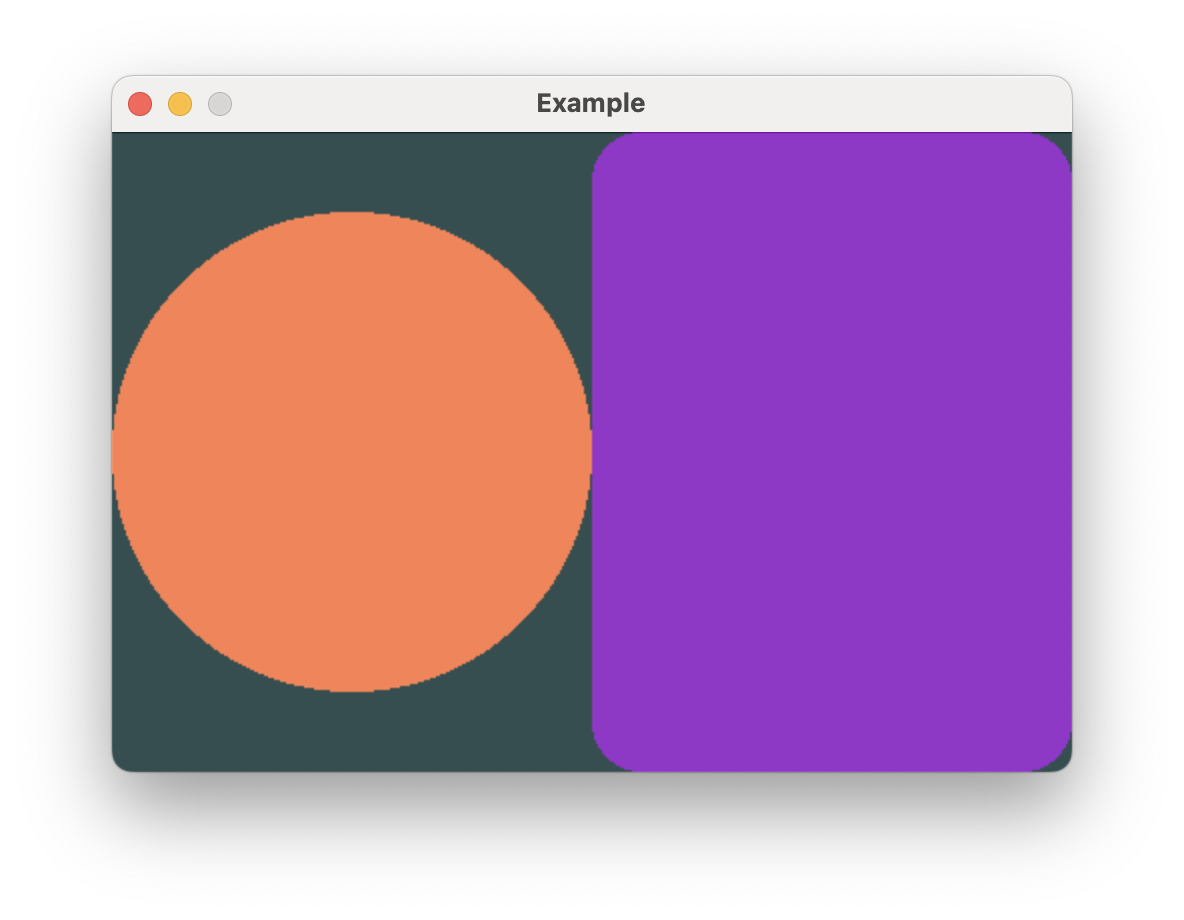
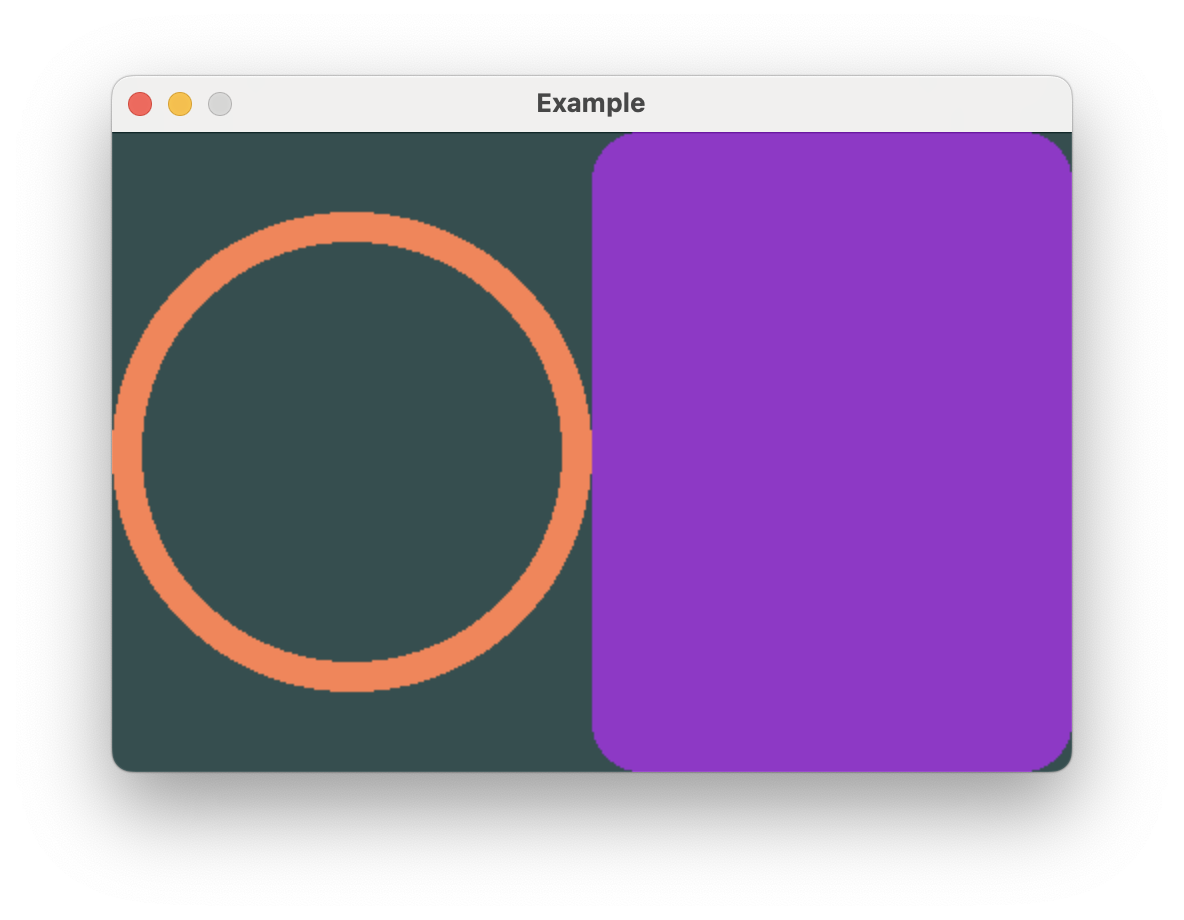
Documentation updates

Changed region(s): [[0.0938, 0.2435, 0.5, 0.7304]]

diff --git a/buoyant-examples/battery/src/view/charge.rs b/buoyant-examples/battery/src/view/charge.rs
@@ -1,12 +1,4 @@
-use buoyant::{
-    layout::{Alignment, HorizontalAlignment},
-    view::{
-        padding::Edges,
-        shape::{Circle, RoundedRectangle},
-        FitAxis, HStack, HorizontalTextAlignment, Spacer, Text, VStack, View, ViewExt,
-        ViewThatFits, ZStack,
-    },
-};
+use buoyant::view::prelude::*;
 use core::fmt::Write;
 
 use crate::{
@@ -49,10 +41,7 @@ fn charge_gauge(charge: f32) -> impl View<ColorFormat> {
     let mut formatted_charge = heapless::String::<8>::new();
     _ = write!(formatted_charge, "{charge:.0}"); // ignore write failure
     ZStack::new((
-        Circle.foreground_color(color::GREEN),
-        Circle
-            .foreground_color(color::BACKGROUND)
-            .padding(Edges::All, 8),
+        Circle.stroked(8).foreground_color(color::GREEN),
         VStack::new((
             Text::new(formatted_charge, &font::TITLE),
             Text::new("%", &font::FOOTNOTE),

diff --git a/buoyant-examples/battery/src/view/screen_setting.rs b/buoyant-examples/battery/src/view/screen_setting.rs
@@ -1,15 +1,6 @@
 use std::time::Duration;
 
-use buoyant::{
-    animation::Animation,
-    if_view,
-    layout::Alignment,
-    view::{
-        padding::Edges,
-        shape::{Rectangle, RoundedRectangle},
-        HStack, HorizontalTextAlignment, Text, VStack, View, ViewExt, ZStack,
-    },
-};
+use buoyant::{animation::Animation, if_view, view::prelude::*};
 
 use crate::{
     color::{self, ColorFormat},

diff --git a/buoyant-examples/battery/src/view/stats.rs b/buoyant-examples/battery/src/view/stats.rs
@@ -1,7 +1,4 @@
-use buoyant::{
-    layout::HorizontalAlignment,
-    view::{FitAxis, HStack, Text, VStack, View, ViewExt, ViewThatFits},
-};
+use buoyant::view::prelude::*;
 
 use crate::{
     color::{self, ColorFormat},

diff --git a/README.md b/README.md
@@ -59,13 +59,14 @@ transitions. You should be able to construct most desired layouts and animations
 
 - ✅ Stacks of heterogeneous views (VStack, HStack, ZStack)
 - ✅ Stacks of homogeneous views (ForEach) - partial, vertical only
-- ✅ Common SwiftUI primitives (Spacer, Divider)
+- ✅ Common SwiftUI-like primitives (Spacer, Divider, ...)
+- ✅ Common SwiftUI-like modifiers (.frame, .padding, ...)
 - ✅ Conditional views, with match variable binding
 - ✅ Text (embedded-graphics Monospace and [u8g2](https://crates.io/crates/u8g2-fonts) fonts)
 - ✅ Images (fixed size)
 - ✅ Interruptible Animations + Curves
 - ✅ Common embedded-graphics shape primitives
-- 🚧 Shape stroke+fill
+- ✅ Shape stroke+fill
 - 🚧 Canvas for arbitrary path/shape/raster drawing
 - 💤 Simulated alpha and antialiasing
 - 💤 Transitions

diff --git a/docs/book/src/building-views/stacks.md b/docs/book/src/building-views/stacks.md
@@ -35,7 +35,9 @@ use buoyant::view::prelude::*;
 
 fn view() -> impl View<Rgb888> {
     HStack::new((
-        Circle.foreground_color(Rgb888::CSS_CORAL),
+        Circle
+            .stroked(15)
+            .foreground_color(Rgb888::CSS_CORAL),
         Rectangle
             .corner_radius(25)
             .foreground_color(Rgb888::CSS_DARK_ORCHID),
